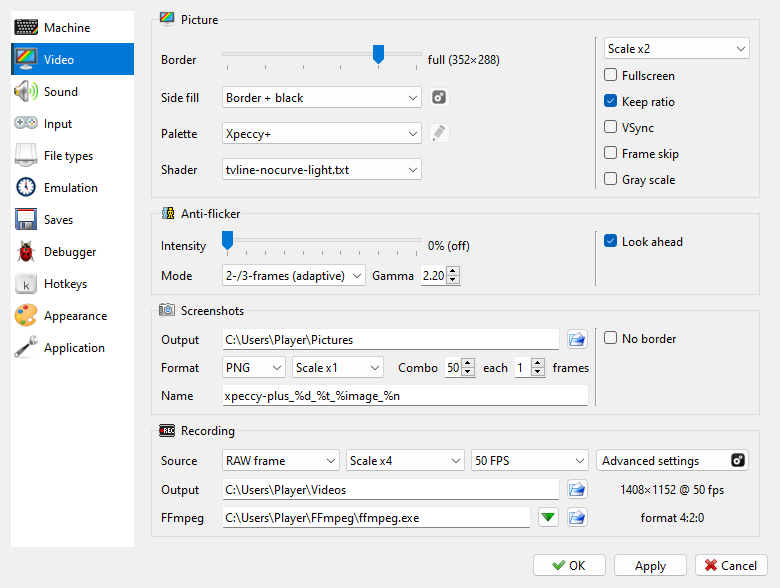
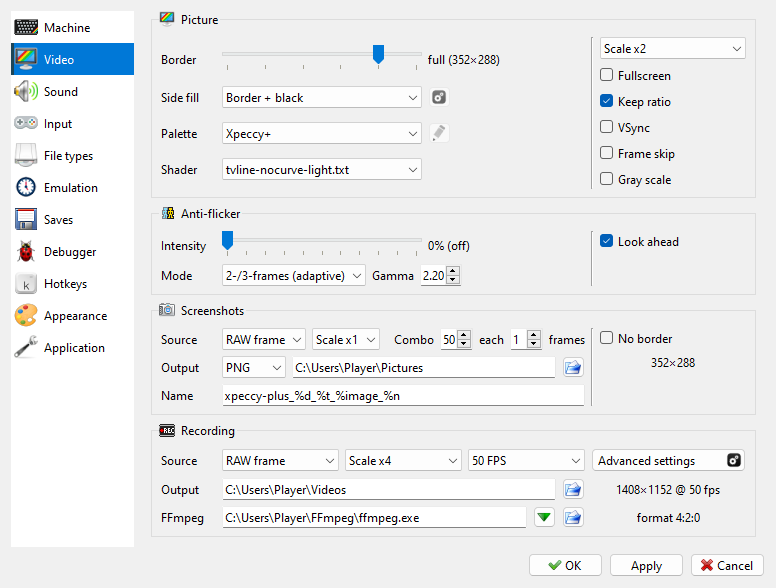
manual: screenshots - Source, Output with the format, the size under No border; the Video page picture

diff --git a/docs/manual/options-video.md b/docs/manual/options-video.md
@@ -147,17 +147,19 @@ Anti-flicker is not applied in fast mode. What the modes look for, and where ant
 
 The **Screenshots** group on the **Video** page of **Options**:
 
-- **Output** - the folder for the files; the {icon}`fileopen` button beside it picks one.
-  Your home folder by default.
-- **Format** - the kind of file, see below.
-- **Scale x1** ... **Scale x4**, **Window size** - the size of the picture. **Scale x1** gives
+- **Source** - **RAW frame** takes the machine's picture alone, with no shader. **Screen**
+  takes the picture as the window shows it, shader and all, as big as it is there; the
+  indicators and messages over it are left out. **Screen** needs the OpenGL view.
+  **RAW frame** by default.
+- **Scale x1** ... **Scale x4** - the size of a **RAW frame** picture. **Scale x1** gives
   one pixel for each dot of the machine: 256×192 for the screen alone, more with as much
   border as the **Border** slider shows. A picture in a high-resolution mode (Profi, ATM and ZX Evo text and hi-res
   modes, the ZX Spectrum Next's 640-dot Layer 2) keeps all its dots, with every line twice so
-  that it is not squashed: 512×384 for a 512-dot screen. **Window size** saves the picture as
-  big as it is in the window. **Scale x1** by default.
+  that it is not squashed: 512×384 for a 512-dot screen. **Scale x1** by default.
 - **Combo** ... **each** ... **frames** - how many pictures **Screenshot Series** takes, and
   how many of the machine's frames apart.
+- **Output** - the kind of file (see below) and the folder for the files; the
+  {icon}`fileopen` button picks the folder. Your home folder by default.
 - **Name** - the file name template, the same as the video's
   ([File name template](#recording)) with one more key, `%n`: a number, `001`, `002` and so
   on, the first one not taken in the folder. Empty, it is
@@ -165,9 +167,12 @@ The **Screenshots** group on the **Video** page of **Options**:
   it: `Tetris GB 001.png`, `Tetris GB 002.png`.
 - **No border** - the screen only, without the border around it.
 
+Under **No border** is the size a picture comes out at with the settings on the page; a
+high-resolution picture comes out twice as big.
+
 | Format | What is saved |
 |---|---|
-| **PNG**, **BMP**, **JPG** | the machine's picture at the size set, without the shader |
+| **PNG**, **BMP**, **JPG** | the picture, as **Source** and the size say |
 | **SCR** | the 6912 bytes of the machine's screen memory, to load back on a Spectrum |
 | **Hobeta** | the same screen memory as a Hobeta file (`.$C`), which goes onto a TR-DOS disk as `screen` |
 

diff --git a/docs/manual/capture.md b/docs/manual/capture.md
@@ -30,7 +30,8 @@ machine's frames apart. Use **Capture > Screenshot** while a series runs to stop
 The files go into the screenshots folder. Their names are made from a template, by default
 the date, the time, the file in use (a snapshot, tape, disk or divMMC card; the machine's
 name when there is none) and a number: `xpeccy-plus_20261110_153012_Tetris GB_001.png`. A
-shot never writes over another file. The folder, the format, the size, the name and the
+shot never writes over another file. The picture is the machine's own, with no shader, or
+the window's, shader and all. That, the folder, the format, the size, the name and the
 number of pictures in a series are set in [Screenshots](options-video.md#screenshots) on
 the **Video** page.
 
